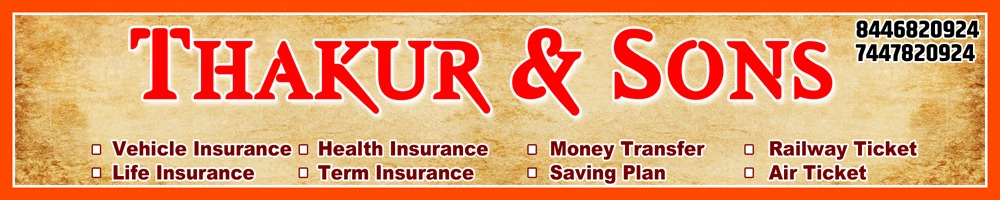
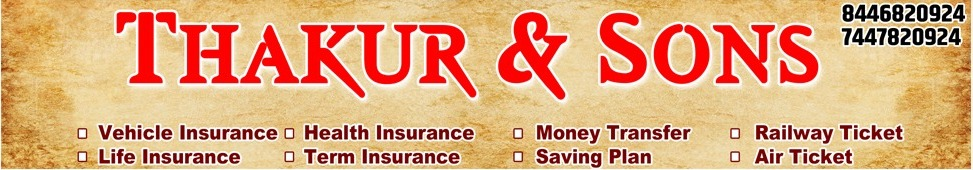
header modified

diff --git a/user-FE/src/components/Services.jsx b/user-FE/src/components/Services.jsx
@@ -5,39 +5,39 @@ const Services = () => {
   return (<>
     <section id="services" className="bg-white text-center pb-4 md:px-0 h-auto ">
       <Divider />
-      <h2 className="text-3xl md:text-4xl font-bold text-[#fb0101] pt-10 md:pt-20">Our Services</h2>
+      <h2 className="text-3xl md:text-4xl font-bold pt-10 md:pt-20">Our Services</h2>
       <div className="flex flex-wrap justify-center mt-8 gap-4">
-        <div className="bg-orange-400 p-6 rounded-lg shadow-md w-full mx-2 sm:w-60">
-          <h3 className="text-xl font-bold text-[#fb0101]">Motor Insurance</h3>
-          <p className="text-black mt-2">Reliable two wheeeler and four wheeler insurance to keep you safe on the road.</p>
+        <div className="bg-slate-500 p-6 rounded-lg shadow-md w-full mx-2 sm:w-60">
+          <h3 className="text-xl font-bold text-black">Motor Insurance</h3>
+          <p className="text-gray-900 mt-2">Reliable two wheeeler and four wheeler insurance to keep you safe on the road.</p>
         </div>
-        <div className="bg-orange-400 p-6 rounded-lg shadow-md w-full mx-2 sm:w-60">
-          <h3 className="text-xl font-bold text-[#fb0101]">Life Insurance</h3>
-          <p className="text-black mt-2">Comprehensive life insurance policies to protect your loved ones.</p>
+        <div className="bg-slate-500 p-6 rounded-lg shadow-md w-full mx-2 sm:w-60">
+          <h3 className="text-xl font-bold text-black">Life Insurance</h3>
+          <p className="text-gray-900 mt-2">Comprehensive life insurance policies to protect your loved ones.</p>
         </div>
-        <div className="bg-orange-400 p-6 rounded-lg shadow-md w-full mx-2 sm:w-60">
-          <h3 className="text-xl font-bold text-[#fb0101]">Health Insurance</h3>
-          <p className="text-black mt-2">Affordable health insurance plans to keep you and your family healthy.</p>
+        <div className="bg-slate-500 p-6 rounded-lg shadow-md w-full mx-2 sm:w-60">
+          <h3 className="text-xl font-bold text-black">Health Insurance</h3>
+          <p className="text-gray-900 mt-2">Affordable health insurance plans to keep you and your family healthy.</p>
         </div>
-        <div className="bg-orange-400 p-6 rounded-lg shadow-md w-full mx-2 sm:w-60">
-          <h3 className="text-xl font-bold text-[#fb0101]">Term Insurance</h3>
-          <p className="text-black mt-2">Attractive Term insurance plans to keep your family secure.</p>
+        <div className="bg-slate-500 p-6 rounded-lg shadow-md w-full mx-2 sm:w-60">
+          <h3 className="text-xl font-bold text-black">Term Insurance</h3>
+          <p className="text-gray-900 mt-2">Attractive Term insurance plans to keep your family secure.</p>
         </div>
-        <div className="bg-orange-400 p-6 rounded-lg shadow-md w-full mx-2 sm:w-60">
-          <h3 className="text-xl font-bold text-[#fb0101]">Money Transfer</h3>
-          <p className="text-black mt-2">Money transfer at cheapest rates.</p>
+        <div className="bg-slate-500 p-6 rounded-lg shadow-md w-full mx-2 sm:w-60">
+          <h3 className="text-xl font-bold text-black">Money Transfer</h3>
+          <p className="text-gray-900 mt-2">Money transfer at cheapest rates.</p>
         </div>
-        <div className="bg-orange-400 p-6 rounded-lg shadow-md w-full mx-2 sm:w-60">
-          <h3 className="text-xl font-bold text-[#fb0101]">Investments</h3>
-          <p className="text-black mt-2">Investment plans convenient for anyone.</p>
+        <div className="bg-slate-500 p-6 rounded-lg shadow-md w-full mx-2 sm:w-60">
+          <h3 className="text-xl font-bold text-black">Investments</h3>
+          <p className="text-gray-900 mt-2">Investment plans convenient for anyone.</p>
         </div>
-        <div className="bg-orange-400 p-6 rounded-lg shadow-md w-full mx-2 sm:w-60">
-          <h3 className="text-xl font-bold text-[#fb0101]">Railway and Air tickets</h3>
-          <p className="text-black mt-2">Advance railway and Air ticket booking at affordable rates.</p>
+        <div className="bg-slate-500 p-6 rounded-lg shadow-md w-full mx-2 sm:w-60">
+          <h3 className="text-xl font-bold text-black">Railway and Air tickets</h3>
+          <p className="text-gray-900 mt-2">Advance railway and Air ticket booking at affordable rates.</p>
         </div>
-        <div className="bg-orange-400 p-6 rounded-lg shadow-md w-full mx-2 sm:w-60">
-          <h3 className="text-xl font-bold text-[#fb0101]">Tours and Travels</h3>
-          <p className="text-black mt-2">Providing complete Tour and travel plans.</p>
+        <div className="bg-slate-500 p-6 rounded-lg shadow-md w-full mx-2 sm:w-60">
+          <h3 className="text-xl font-bold text-black">Tours and Travels</h3>
+          <p className="text-gray-900 mt-2">Providing complete Tour and travel plans.</p>
         </div>
       </div>
     </section>

diff --git a/user-FE/src/components/Navbar.jsx b/user-FE/src/components/Navbar.jsx
@@ -33,13 +33,13 @@ const Navbar = () => {
   }, []);
   
   return (<>
-      <nav className= {`transition-all duration-500 ${showNavbar ? 'display-block' : 'hidden'} navbar sticky top-0 z-50  flex  justify-between items-start md:items-center bg-[#ff4900] md:py-0.5 md:px-3 p-2  md:p-3`}>
+      <nav className= {`transition-all duration-500 ${showNavbar ? 'display-block' : 'hidden'} navbar sticky top-0 z-50  flex  justify-between items-start md:items-center bg-slate-700 md:py-0.5 md:px-3 p-2  md:p-3`}>
         {/* <div className="text-white text-xl md:text-3xl font-bold">Pankaj FinanceGaurd Solutions.</div> */}
         <div className=" text-l md:text-2xl  md:flex space-x-4">
-          <a href="#home" className="text-black hover:text-gray-700 transition duration-300">Home</a>
-          <a href="#about" className="text-black hover:text-gray-700 transition duration-300">About</a>
-          <a href="#services" className="text-black hover:text-gray-700 transition duration-300">Services</a>
-          <a href="#contact" className="text-black hover:text-gray-700 transition duration-300">Contact</a>
+          <a href="#home" className="text-white hover:text-gray-700 transition duration-300">Home</a>
+          <a href="#about" className="text-white hover:text-gray-700 transition duration-300">About</a>
+          <a href="#services" className="text-white hover:text-gray-700 transition duration-300">Services</a>
+          <a href="#contact" className="text-white hover:text-gray-700 transition duration-300">Contact</a>
         </div>
         <button onClick={toggleDarkMode} className='hidden md:block text-xl font-bold'>
           {darkMode ? <div className = " flex items-center gap-2 bg-black p-3 m-2 rounded-xl">Light Mode <MdOutlineDarkMode /></div> : <div className = "flex gap-2 items-center bg-white p-3 m-2 rounded-xl">Dark Mode <MdDarkMode /></div>}
@@ -48,13 +48,13 @@ const Navbar = () => {
           {darkMode ? <div className = " flex items-center gap-2 "><MdOutlineDarkMode /></div> : <div className = "flex gap-2 items-center"><MdDarkMode /></div>}
         </button>
     </nav>
-      <nav className = {`transition-opacity duration-500 ${showNavbar ? 'hidden' : 'display-block'} navbar z-50  flex  justify-between items-start md:items-center bg-[#ff4900] md:py-0.5 md:px-3 p-2  md:p-3`}>
+      <nav className = {`transition-opacity duration-500 ${showNavbar ? 'hidden' : 'display-block'} navbar z-50  flex  justify-between items-start md:items-center bg-slate-700 md:py-0.5 md:px-3 p-2  md:p-3`}>
         {/* <div className="text-white text-xl md:text-3xl font-bold">Pankaj FinanceGaurd Solutions.</div> */}
         <div className=" text-l md:text-2xl  md:flex space-x-4">
-          <a href="#home" className="text-black hover:text-gray-700 transition duration-300">Home</a>
-          <a href="#about" className="text-black hover:text-gray-700 transition duration-300">About</a>
-          <a href="#services" className="text-black hover:text-gray-700 transition duration-300">Services</a>
-          <a href="#contact" className="text-black hover:text-gray-700 transition duration-300">Contact</a>
+          <a href="#home" className="text-white hover:text-gray-700 transition duration-300">Home</a>
+          <a href="#about" className="text-white hover:text-gray-700 transition duration-300">About</a>
+          <a href="#services" className="text-white hover:text-gray-700 transition duration-300">Services</a>
+          <a href="#contact" className="text-white hover:text-gray-700 transition duration-300">Contact</a>
         </div>
         <button onClick={toggleDarkMode} className='hidden md:block text-xl font-bold'>
           {darkMode ? <div className = " flex items-center gap-2 bg-black p-3 m-2 rounded-xl">Light Mode <MdOutlineDarkMode /></div> : <div className = "flex gap-2 items-center bg-white p-3 m-2 rounded-xl">Dark Mode <MdDarkMode /></div>}

diff --git a/user-FE/src/components/Contact.jsx b/user-FE/src/components/Contact.jsx
@@ -46,7 +46,7 @@ const Contact = () => {
   return (<>
     <section id="contact" className="bg-gray-100 text-center p-4 md:px-0 h-auto ">
       <Divider />
-      <h2 className="text-3xl md:text-4xl font-bold text-[#fb0101] pt-10 md:pt-20">Contact Us</h2>
+      <h2 className="text-3xl md:text-4xl font-bold pt-10 md:pt-20">Contact Us</h2>
       <p className="mt-4">Reach out to us for any inquiries or assistance.</p>
       <form className="form mt-8 max-w-xl mx-auto space-y-4" onSubmit={handleSubmit}>
         <input
@@ -55,7 +55,7 @@ const Contact = () => {
           placeholder="Name"
           value={formData.name}
           onChange={handleChange}
-          className="block w-full p-3 border border-gray-300 rounded"
+          className="block w-full p-3 border border-gray-900 placeholder:text-gray-500 rounded"
           required
         />
         <input
@@ -64,7 +64,7 @@ const Contact = () => {
           placeholder="Email"
           value={formData.email}
           onChange={handleChange}
-          className="block w-full p-3 border border-gray-300 rounded"
+          className="block w-full p-3 border border-gray-900 placeholder:text-gray-500 rounded"
         />
         <input
           type="number"
@@ -72,7 +72,7 @@ const Contact = () => {
           placeholder="Mobile number"
           value={formData.phone}
           onChange={handleChange}
-          className="block w-full p-3 border border-gray-300 rounded"
+          className="block w-full p-3 border border-gray-900 placeholder:text-gray-500 rounded"
           required
         />
         <textarea
@@ -80,12 +80,12 @@ const Contact = () => {
           placeholder="Message"
           value={formData.message}
           onChange={handleChange}
-          className="block w-full p-3 border border-gray-300 rounded"
+          className="block w-full p-3 border border-gray-900 placeholder:text-gray-500 rounded"
           required
         />
         <button
           type="submit"
-          className="bg-[#fb0101] text-white px-6 py-3 rounded font-bold hover:bg-blue-700"
+          className="bg-blue-700 text-white px-6 py-3 rounded font-bold hover:bg-blue-700"
         >
           Send Message
         </button>
@@ -93,7 +93,7 @@ const Contact = () => {
       {statusMessage && <p className="mt-4 text-red-500">{statusMessage}</p>}
 
       {/* WhatsApp Link */}
-      <p className="mt-8">Prefer WhatsApp? <a href="https://api.whatsapp.com/send?phone=8446820924&text=Hello%2C%20I%20have%20a%20question%20about%20your%20services" target="_blank" rel="noopener noreferrer" className="text-[#fb0101] hover:underline">Chat with us on WhatsApp</a>.</p>
+      <p className="mt-8">Prefer WhatsApp? <a href="https://api.whatsapp.com/send?phone=8446820924&text=Hello%2C%20I%20have%20a%20question%20about%20your%20services" target="_blank" rel="noopener noreferrer" className="text-blue-700 hover:underline">Chat with us on WhatsApp</a>.</p>
     </section>
   </>
   );

diff --git a/user-FE/src/components/Home.jsx b/user-FE/src/components/Home.jsx
@@ -9,7 +9,7 @@ const Home = () => {
   return (
     <>
       <section id="home" className="text-center py-10 md:py-20 md:px-0 text-0.7rem h-auto">
-        <h1 className="text-3xl md:text-5xl font-bold text-[#fb0101]">Welcome to Thakur & Sons.</h1>
+        <h1 className="text-3xl md:text-5xl font-bold">Welcome to Thakur & Sons.</h1>
         <div className='w-[80vw] md:mt-10 m-auto  flex flex-col-reverse md:flex-row justify-around'>
           <div className='md:w-[40vw]'>
             <div className="relative m-auto w-full md:w-4/5 my-10 pb-full border-dotted border-2 border-pink-300 bg-pink-200 rounded-full">

diff --git a/user-FE/src/components/Header.jsx b/user-FE/src/components/Header.jsx
@@ -10,8 +10,8 @@ const Header = () => {
 
   return (
   <>
-  <div className='header h-[17vh] lg:h-[40vh] w-[100vw]'>
-    <img className='object-fill h-[17vh] lg:h-[40vh] w-[100vw]' src= {header} alt="" />
+  <div className='bg-slate-900 header h-[25vh] lg:h-[40vh] w-[100vw] flex justify-center items-center'>
+    <img className=' object-fill h-[20vh] lg:h-[35vh] w-[99vw] rounded-2xl' src= {header} alt="" />
     {/* <div className='head text-white text-3xl md:text-5xl font-bold  '>Pankaj FinanceGaurd Solutions.</div> */}
     </div>
     <div>

diff --git a/user-FE/src/components/About.jsx b/user-FE/src/components/About.jsx
@@ -5,7 +5,7 @@ const About = () => {
   return (<>
     <section id="about" className=" bg-gray-100 text-center  p-4 h-auto">
       <Divider />
-      <h2 className="text-3xl md:text-4xl font-bold text-[#fb0101] pt-10 md:pt-20">About Us</h2>
+      <h2 className="text-3xl md:text-4xl font-bold pt-10 md:pt-20">About Us</h2>
       <div className='w-[80vw] md:mt-10 m-auto  flex flex-col md:flex-row justify-around items-center'>
         <div className='md:w-[40vw] '>
         

diff --git a/user-FE/src/components/Footer.jsx b/user-FE/src/components/Footer.jsx
@@ -2,7 +2,7 @@ import React from 'react';
 
 const Footer = () => {
   return (
-    <footer className=" footer bg-[#ff4900] text-white py-8">
+    <footer className=" footer bg-slate-900 text-white py-8">
       <div className="container mx-auto px-4 md:px-0">
         <div className="flex flex-wrap justify-between">
           <div className="w-full md:w-1/3 mb-8 md:mb-0">

diff --git a/user-FE/src/index.css b/user-FE/src/index.css
@@ -9,7 +9,7 @@ body {
   }
   
   body.dark-mode {
-    background-color: #121212;
+    background-color: #080808eb;
     color: #ffffff;
   }
   
